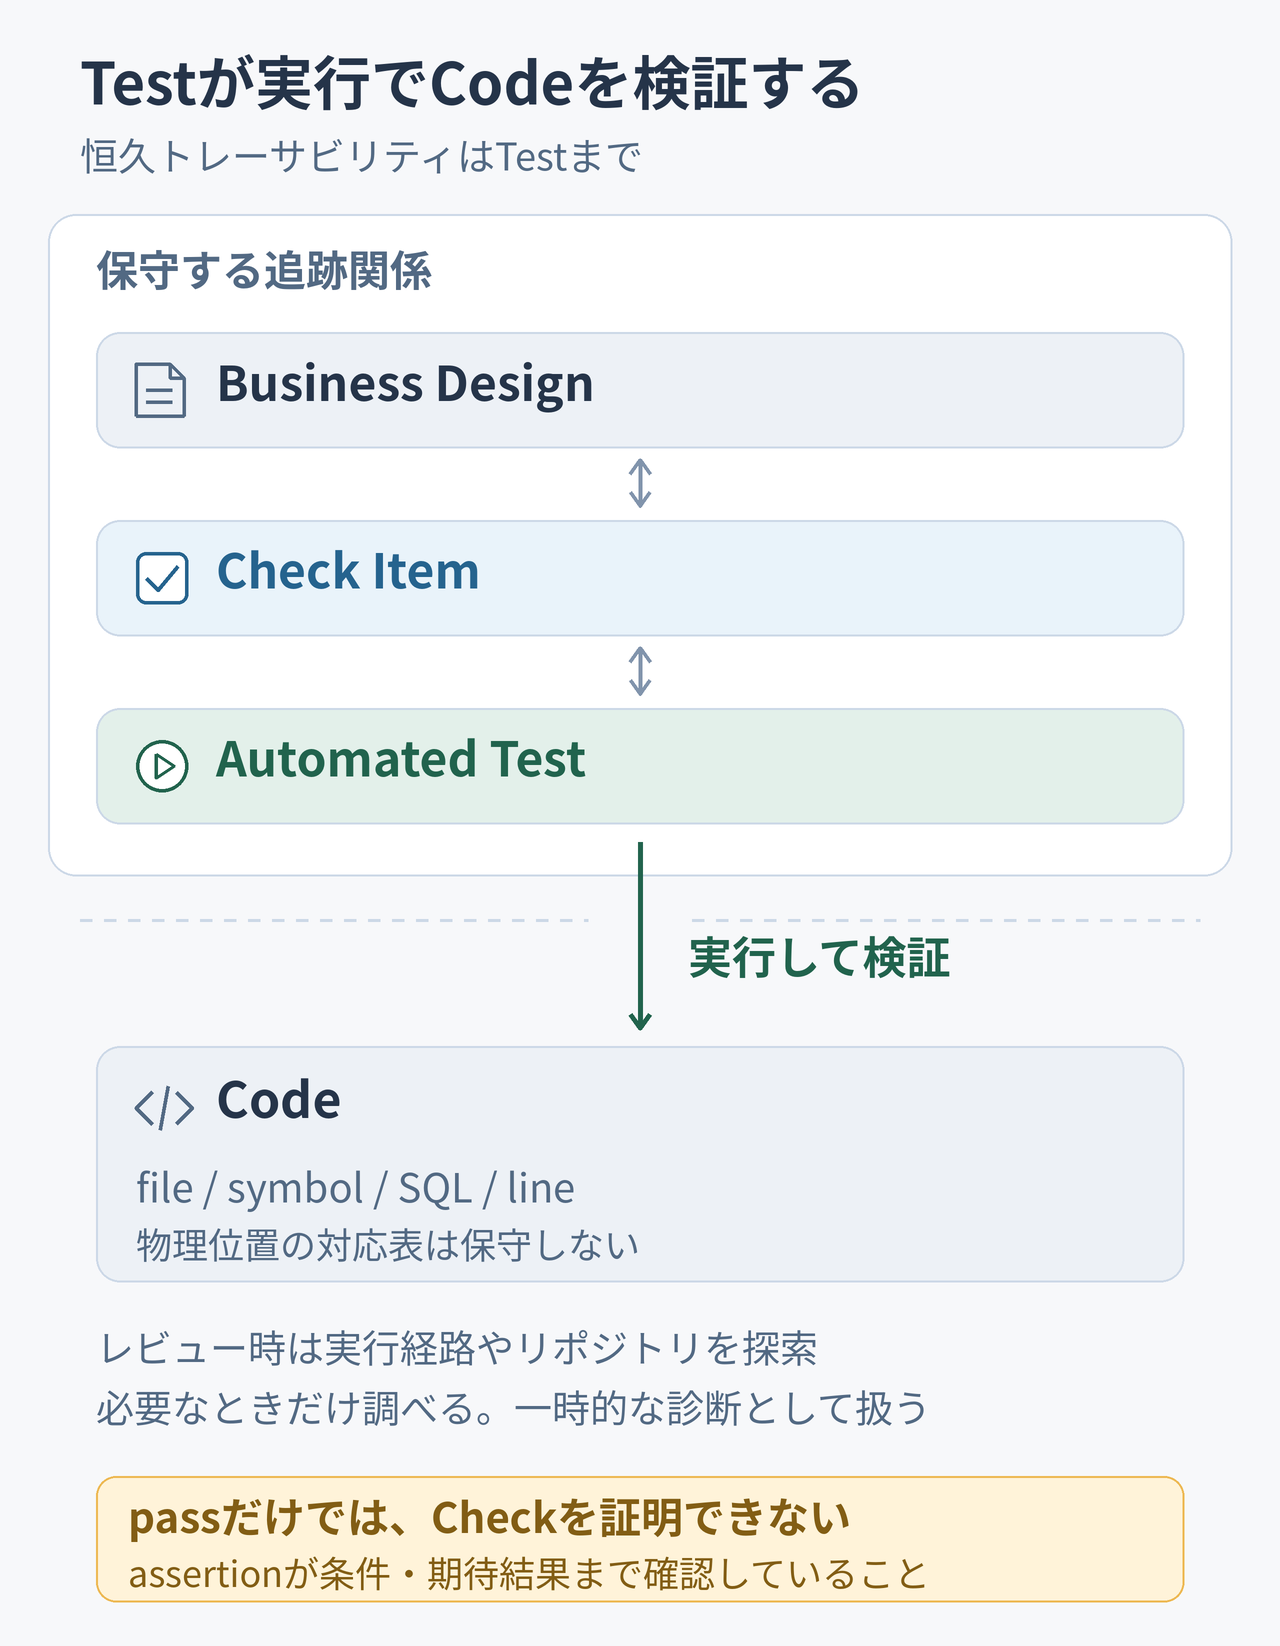
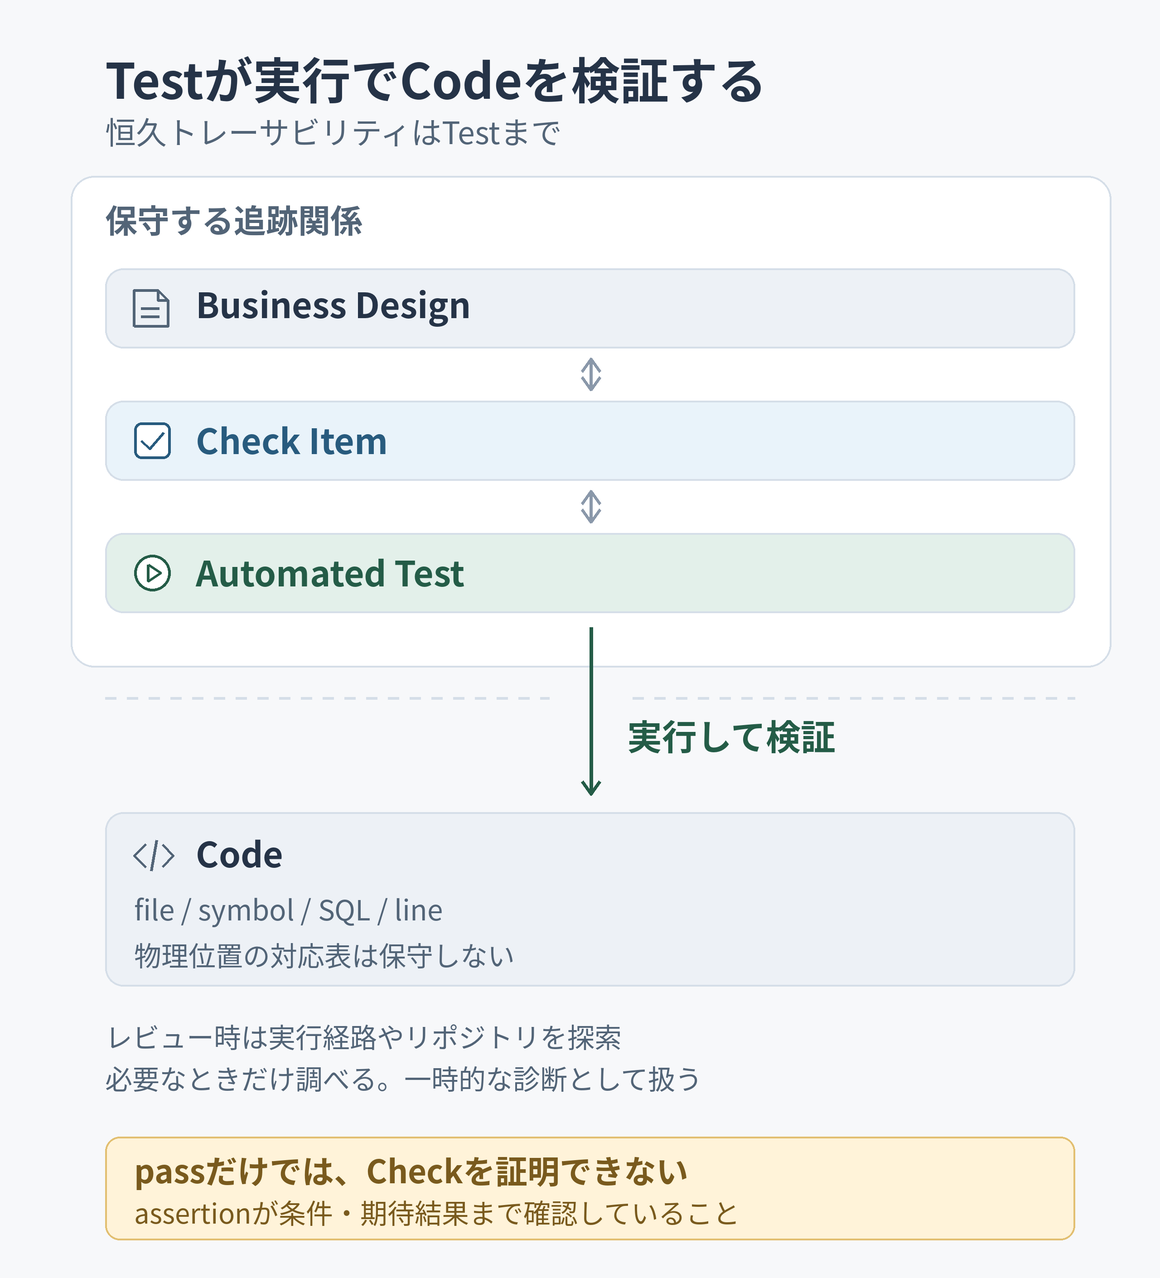
docs: match artifact diagram scale to creation workflows

diff --git a/docs/images/traceability/render.py b/docs/images/traceability/render.py
@@ -7,8 +7,11 @@ Run from any directory:
 Requires Pillow and Noto Sans CJK JP (regular and bold TTC files). The default
 font directory is the Debian/Ubuntu fonts-noto-cjk location; --font-dir can
 select another installation. Rendering performs no network access. Each source
-canvas is 640 logical pixels wide; checked-in PNGs are rendered at 2x for sharp
-README display at width=640. All text is checked against its allotted width.
+canvas is 640 logical pixels wide. Japanese images use the creation-workflow
+scale (1160px source width); English images retain their existing 1280px width.
+Japanese typography is derived from the 1160px creation-workflow original:
+49px title / 35px card heading / 27px body, all displayed at README width=640.
+All text is checked against its allotted width.
 """
 from __future__ import annotations
 
@@ -37,24 +40,25 @@ FONT_DIR: Path
 def font(size: int, bold: bool = False) -> ImageFont.FreeTypeFont:
     weight = "Bold" if bold else "Regular"
     return ImageFont.truetype(str(FONT_DIR / f"NotoSansCJK-{weight}.ttc"),
-                              size * SUPERSAMPLE, index=0)
+                              round(size * SUPERSAMPLE), index=0)
 
 
 class Canvas:
     def __init__(self, height: int):
         self.height = height
-        self.im = Image.new("RGB", (WIDTH * SUPERSAMPLE, height * SUPERSAMPLE), P["bg"])
+        self.palette = P
+        self.im = Image.new("RGB", (WIDTH * SUPERSAMPLE, height * SUPERSAMPLE), self.palette["bg"])
         self.draw = ImageDraw.Draw(self.im)
 
     def rect(self, x, y, w, h, fill="white", outline="line", radius=12, width=1):
         box = tuple(round(v * SUPERSAMPLE) for v in (x, y, x + w, y + h))
         self.draw.rounded_rectangle(box, radius=radius * SUPERSAMPLE,
-                                    fill=P.get(fill, fill), outline=P.get(outline, outline),
+                                    fill=self.palette.get(fill, fill), outline=self.palette.get(outline, outline),
                                     width=round(width * SUPERSAMPLE))
 
     def line(self, xy, color="arrow", width=1.6):
         self.draw.line([(round(x * SUPERSAMPLE), round(y * SUPERSAMPLE)) for x, y in xy],
-                       fill=P.get(color, color), width=round(width * SUPERSAMPLE), joint="curve")
+                       fill=self.palette.get(color, color), width=round(width * SUPERSAMPLE), joint="curve")
 
     def dashed(self, x1, x2, y, color="line"):
         for x in range(int(x1), int(x2), 12):
@@ -68,7 +72,7 @@ class Canvas:
         if center:
             x -= measured / 2
         self.draw.text((round(x * SUPERSAMPLE), round(y * SUPERSAMPLE)), value,
-                       fill=P[color], font=face, anchor="lt")
+                       fill=self.palette[color], font=face, anchor="lt")
 
     def arrow(self, x, y1, y2, bidirectional=False, color="arrow", width=2):
         self.line([(x, y1), (x, y2)], color, width)
@@ -141,39 +145,157 @@ def relation(c, top, bottom, label):
     c.text(346, (top + bottom) / 2 - 11, label, 20, color="muted", max_width=230)
 
 
+class JapaneseCanvas(Canvas):
+    """Match creation-workflow typography at the same 640px README width."""
+    def __init__(self, height):
+        super().__init__(height)
+        self.palette = dict(P, ink="#253347", muted="#526477", line="#D5DEE8",
+                            arrow="#8A98AA", blue_line="#B6D3E8", blue_ink="#285B7E",
+                            green_line="#8DB9A4", green_ink="#245C47",
+                            yellow_line="#E2BF71", yellow_ink="#795A1D")
+
+    def title(self, title, subtitle):
+        self.text(58, 31, title, 49 * 640 / 1160, True, max_width=535)
+        self.text(58, 65, subtitle, 31 * 640 / 1160, color="muted", max_width=535)
+
+    def save(self, path):
+        self.im.resize((1160, round(self.height * 1160 / 640)),
+                       Image.Resampling.LANCZOS).save(path, optimize=True)
+
+
+def ja_icon(c, kind, x, y, color="muted"):
+    scale = 20 / 26
+    def line(points, width=1.4):
+        c.line([(x + xx * scale, y + yy * scale) for xx, yy in points], color, width)
+    if kind == "document":
+        line([(0, 26), (0, 0), (17, 0), (24, 7), (24, 26), (0, 26)])
+        line([(17, 0), (17, 7), (24, 7)])
+        line([(5, 13), (18, 13)])
+        line([(5, 19), (18, 19)])
+    elif kind == "check":
+        c.rect(x, y, 20, 20, "white", color, radius=4, width=1.4)
+        line([(5, 13), (11, 19), (21, 7)], 1.6)
+    elif kind == "play":
+        c.rect(x, y, 20, 20, "white", color, radius=10, width=1.4)
+        line([(10, 7), (19, 13), (10, 19), (10, 7)], 1.4)
+    elif kind == "code":
+        line([(8, 5), (0, 13), (8, 21)], 1.6)
+        line([(20, 5), (28, 13), (20, 21)], 1.6)
+        line([(16, 2), (12, 24)], 1.6)
+
+
+def ja_entity(c, y, h, title, icon, fill="gray", ink="ink", badge=False):
+    c.rect(58, y, 535, h, radius=10, width=1.1)
+    c.rect(59, y + 1, 533, 41, fill, fill, radius=9, width=1.1)
+    c.draw.rectangle((59 * SUPERSAMPLE, (y + 30) * SUPERSAMPLE,
+                      592 * SUPERSAMPLE, (y + 42) * SUPERSAMPLE), fill=c.palette[fill])
+    c.line([(59, y + 42), (592, y + 42)], "line", 1.1)
+    ja_icon(c, icon, 74, y + 11, ink if ink != "ink" else "muted")
+    size = 35 * 640 / 1160
+    bbox = c.draw.textbbox((0, 0), title, font=font(size, True), anchor="lt")
+    c.text(108, y + 21 - (bbox[3] - bbox[1]) / SUPERSAMPLE / 2,
+           title, size, True, ink, max_width=390)
+    if badge:
+        c.rect(515, y + 9, 62, 25, "green", "green_line", radius=6, width=1.1)
+        c.text(546, y + 15, "SSOT", 13.8, True, "green_ink", center=True, max_width=50)
+
+
+def ja_relation(c, top, bottom, label):
+    c.arrow(326, top, bottom, True, width=1.65)
+    c.text(310, top, "N", 14.9, True, "muted", center=True)
+    c.text(310, bottom - 16, "M", 14.9, True, "muted", center=True)
+    c.text(347, (top + bottom) / 2 - 8, label, 15.45, color="muted", max_width=230)
+
+
 def model_ja():
-    c = Canvas(1115)
+    c = JapaneseCanvas(890)
     c.title("成果物の相関", "概念モデル：多対多の追跡関係")
-    c.rect(24, 107, 592, 984, radius=14)
-    entity(c, 127, 176, "業務設計書", "document", badge="SSOT",
-           center_header=True, green_badge=True)
-    c.text(66, 194, "識別キー：文書内のActivity名", 20, True, max_width=507)
-    c.text(66, 230, "例：予約を受け付ける", 19, color="muted", max_width=507)
-    c.text(66, 268, "業務の手順・入出力・結果を記した文書", 19, max_width=507)
-    relation(c, 311, 362, "期待結果を導く")
-    entity(c, 371, 407, "チェック項目リスト", "check", fill="blue", ink="blue_ink",
-           center_header=True)
-    c.text(66, 438, "各項目の識別キー：Check ID（安定キー）", 20, True,
-           color="blue_ink", max_width=507)
-    c.text(66, 474, "例：CK-01", 19, color="muted", max_width=507)
-    c.text(66, 512, "独立して確認できる、条件と期待結果の一覧", 19, max_width=507)
-    c.line([(66, 546), (574, 546)], "line", 1)
-    c.text(66, 561, "・業務設計書との結合", 19, True, "blue_ink", max_width=507)
-    c.text(84, 592, "作成・更新スキル利用時に、", 18, max_width=489)
-    c.text(84, 619, "文書とActivity名を紐づけて管理", 18, max_width=489)
-    c.text(66, 661, "・テストとの結合", 19, True, "blue_ink", max_width=507)
-    c.text(84, 692, "実装レビュー後の記録更新スキル利用時に、", 18, max_width=489)
-    c.text(84, 719, "AIが条件・期待結果とテストの検証内容を照合し、", 18, max_width=489)
-    c.text(84, 746, "対応するテスト名・検証内容を記録", 18, max_width=489)
-    relation(c, 786, 837, "期待結果を検証")
-    entity(c, 846, 176, "テスト", "play", fill="green", ink="green_ink",
-           center_header=True)
-    c.text(66, 913, "識別キー：テスト名", 20, True,
-           color="green_ink", max_width=507)
-    c.text(66, 949, "例：test_accept_booking", 19, color="muted", max_width=507)
-    c.text(66, 987, "条件・期待結果をコードの実行で確かめる", 19, max_width=507)
-    c.text(320, 1048, "テストもチェック項目を経由してSSOTまで遡れる", 20, True,
-           "green_ink", max_width=540, center=True)
+    c.rect(39, 97, 574, 770, radius=13, width=1.1)
+    ja_entity(c, 113, 140, "業務設計書", "document", badge=True)
+    c.text(74, 166, "識別キー：文書内のActivity名", 15.45, True, max_width=503)
+    c.text(74, 193, "例：予約を受け付ける", 14.9, color="muted", max_width=503)
+    c.text(74, 223, "業務の手順・入出力・結果を記した文書", 14.9, max_width=503)
+    ja_relation(c, 261, 299, "期待結果を導く")
+    ja_entity(c, 308, 318, "チェック項目リスト", "check", "blue", "blue_ink")
+    c.text(74, 361, "各項目の識別キー：Check ID（安定キー）", 15.45, True, "blue_ink", max_width=503)
+    c.text(74, 386, "例：CK-01", 14.9, color="muted", max_width=503)
+    c.text(74, 411, "独立して確認できる、条件と期待結果の一覧", 14.9, max_width=503)
+    c.line([(74, 435), (577, 435)], "line", 1.1)
+    c.text(74, 450, "・業務設計書との結合", 15.45, True, "blue_ink", max_width=503)
+    c.text(88, 474, "作成・更新スキル利用時に、", 14.9, max_width=489)
+    c.text(88, 495, "文書とActivity名を紐づけて管理", 14.9, max_width=489)
+    c.text(74, 524, "・テストとの結合", 15.45, True, "blue_ink", max_width=503)
+    c.text(88, 548, "実装レビュー後の記録更新スキル利用時に、", 14.9, max_width=489)
+    c.text(88, 569, "AIが条件・期待結果とテストの検証内容を照合し、", 14.9, max_width=489)
+    c.text(88, 590, "対応するテスト名・検証内容を記録", 14.9, max_width=489)
+    ja_relation(c, 634, 672, "期待結果を検証")
+    ja_entity(c, 680, 140, "テスト", "play", "green", "green_ink")
+    c.text(74, 733, "識別キー：テスト名", 15.45, True, "green_ink", max_width=503)
+    c.text(74, 758, "例：test_accept_booking", 14.9, color="muted", max_width=503)
+    c.text(74, 783, "条件・期待結果をコードの実行で確かめる", 14.9, max_width=503)
+    c.text(326, 842, "テストもチェック項目を経由してSSOTまで遡れる", 16.55, True,
+           "green_ink", max_width=535, center=True)
+    return c
+
+
+def execution_ja():
+    c = JapaneseCanvas(705)
+    c.title("Testが実行でCodeを検証する", "恒久トレーサビリティはTestまで")
+    c.rect(39, 97, 574, 271, radius=13, width=1.1)
+    c.text(58, 113, "保守する追跡関係", 17.65, True, "muted", max_width=535)
+    for y, title, kind, fill, ink in [(148, "Business Design", "document", "gray", "ink"),
+                                     (221, "Check Item", "check", "blue", "blue_ink"),
+                                     (294, "Automated Test", "play", "green", "green_ink")]:
+        c.rect(58, y, 535, 44, fill, "line", radius=10, width=1.1)
+        ja_icon(c, kind, 74, y + 12, ink if ink != "ink" else "muted")
+        size = 35 * 640 / 1160
+        bbox = c.draw.textbbox((0, 0), title, font=font(size, True), anchor="lt")
+        c.text(108, y + 22 - (bbox[3] - bbox[1]) / SUPERSAMPLE / 2, title, size, True, ink)
+    c.arrow(326, 198, 215, True, width=1.65)
+    c.arrow(326, 271, 288, True, width=1.65)
+    c.dashed(58, 303, 385)
+    c.dashed(349, 593, 385)
+    c.arrow(326, 346, 438, color="green_ink", width=1.9)
+    c.text(346, 397, "実行して検証", 19.3, True, "green_ink", max_width=230)
+    c.rect(58, 448, 535, 96, "gray", "line", radius=10, width=1.1)
+    ja_icon(c, "code", 74, 462)
+    c.text(108, 463, "Code", 19.3, True)
+    c.text(74, 495, "file / symbol / SQL / line", 15.45, color="muted", max_width=503)
+    c.text(74, 520, "物理位置の対応表は保守しない", 14.9, color="muted", max_width=503)
+    c.text(58, 565, "レビュー時は実行経路やリポジトリを探索", 14.9, color="muted", max_width=535)
+    c.text(58, 588, "必要なときだけ調べる。一時的な診断として扱う", 14.9, color="muted", max_width=535)
+    c.rect(58, 627, 535, 57, "yellow", "yellow_line", radius=8, width=1.1)
+    c.text(74, 638, "passだけでは、Checkを証明できない", 17.65, True, "yellow_ink", max_width=503)
+    c.text(74, 662, "assertionが条件・期待結果まで確認していること", 14.9, color="yellow_ink", max_width=503)
+    return c
+
+
+def drift_ja():
+    c = JapaneseCanvas(735)
+    c.title("変更後も意味の対応を確かめる", "標準レビューと任意のdrift pilot")
+    c.rect(39, 97, 574, 270, radius=13, width=1.1)
+    c.text(58, 113, "標準：AIが意味の対応を確認", 19.3, True, "blue_ink", max_width=535)
+    c.rect(58, 151, 535, 70, "blue", "blue_line", radius=10, width=1.1)
+    c.text(74, 164, "Business Design → Check Item", 17.65, True, "blue_ink", max_width=503)
+    c.text(74, 196, "期待結果を現在の業務の意味から導けるか", 14.9, color="blue_ink", max_width=503)
+    c.rect(58, 235, 535, 70, "green", "green_line", radius=10, width=1.1)
+    c.text(74, 248, "Check Item → Test assertion", 17.65, True, "green_ink", max_width=503)
+    c.text(74, 280, "条件・期待結果を十分に検証しているか", 14.9, color="green_ink", max_width=503)
+    c.text(326, 330, "検証根拠の不足 ≠ 業務の意味の未決", 16.55, True, "muted", center=True, max_width=535)
+    c.rect(39, 388, 574, 324, radius=13, width=1.1)
+    c.text(58, 405, "任意：限定的なdrift pilot", 19.3, True, "yellow_ink", max_width=535)
+    c.text(58, 442, "Business Design source / Check body", 15.45, color="muted", max_width=535)
+    c.text(58, 469, "fingerprintを比較", 14.9, color="muted", max_width=535)
+    for x, title in [(58, "前回の整合確認時"), (354, "現在")]:
+        c.rect(x, 505, 239, 52, "gray", "line", radius=8, width=1.1)
+        c.text(x + 119.5, 517, title, 16.55, True, center=True, max_width=215)
+        c.text(x + 119.5, 539, "fingerprint", 13.8, color="muted", center=True, max_width=215)
+    c.text(326, 520, "≠", 21, True, "yellow_ink", center=True)
+    c.arrow(326, 565, 588, color="yellow_ink", width=1.65)
+    c.rect(58, 595, 535, 63, "yellow", "yellow_line", radius=8, width=1.1)
+    c.text(326, 607, "不一致 → 再確認候補", 19.3, True, "yellow_ink", center=True, max_width=503)
+    c.text(326, 635, "誤りが確定したわけではない", 15.45, color="yellow_ink", center=True, max_width=503)
+    c.text(326, 680, "対応形式を限定した任意PoC", 14.9, color="muted", center=True, max_width=535)
     return c
 
 
@@ -210,6 +332,8 @@ def model(lang):
 
 
 def execution(lang):
+    if lang == "ja":
+        return execution_ja()
     ja = lang == "ja"
     c = Canvas(823)
     c.title("Testが実行でCodeを検証する" if ja else "Tests verify Code by execution",
@@ -247,6 +371,8 @@ def execution(lang):
 
 
 def drift(lang):
+    if lang == "ja":
+        return drift_ja()
     ja = lang == "ja"
     c = Canvas(878)
     c.title("変更後も意味の対応を確かめる" if ja else "Check alignment after changes",
